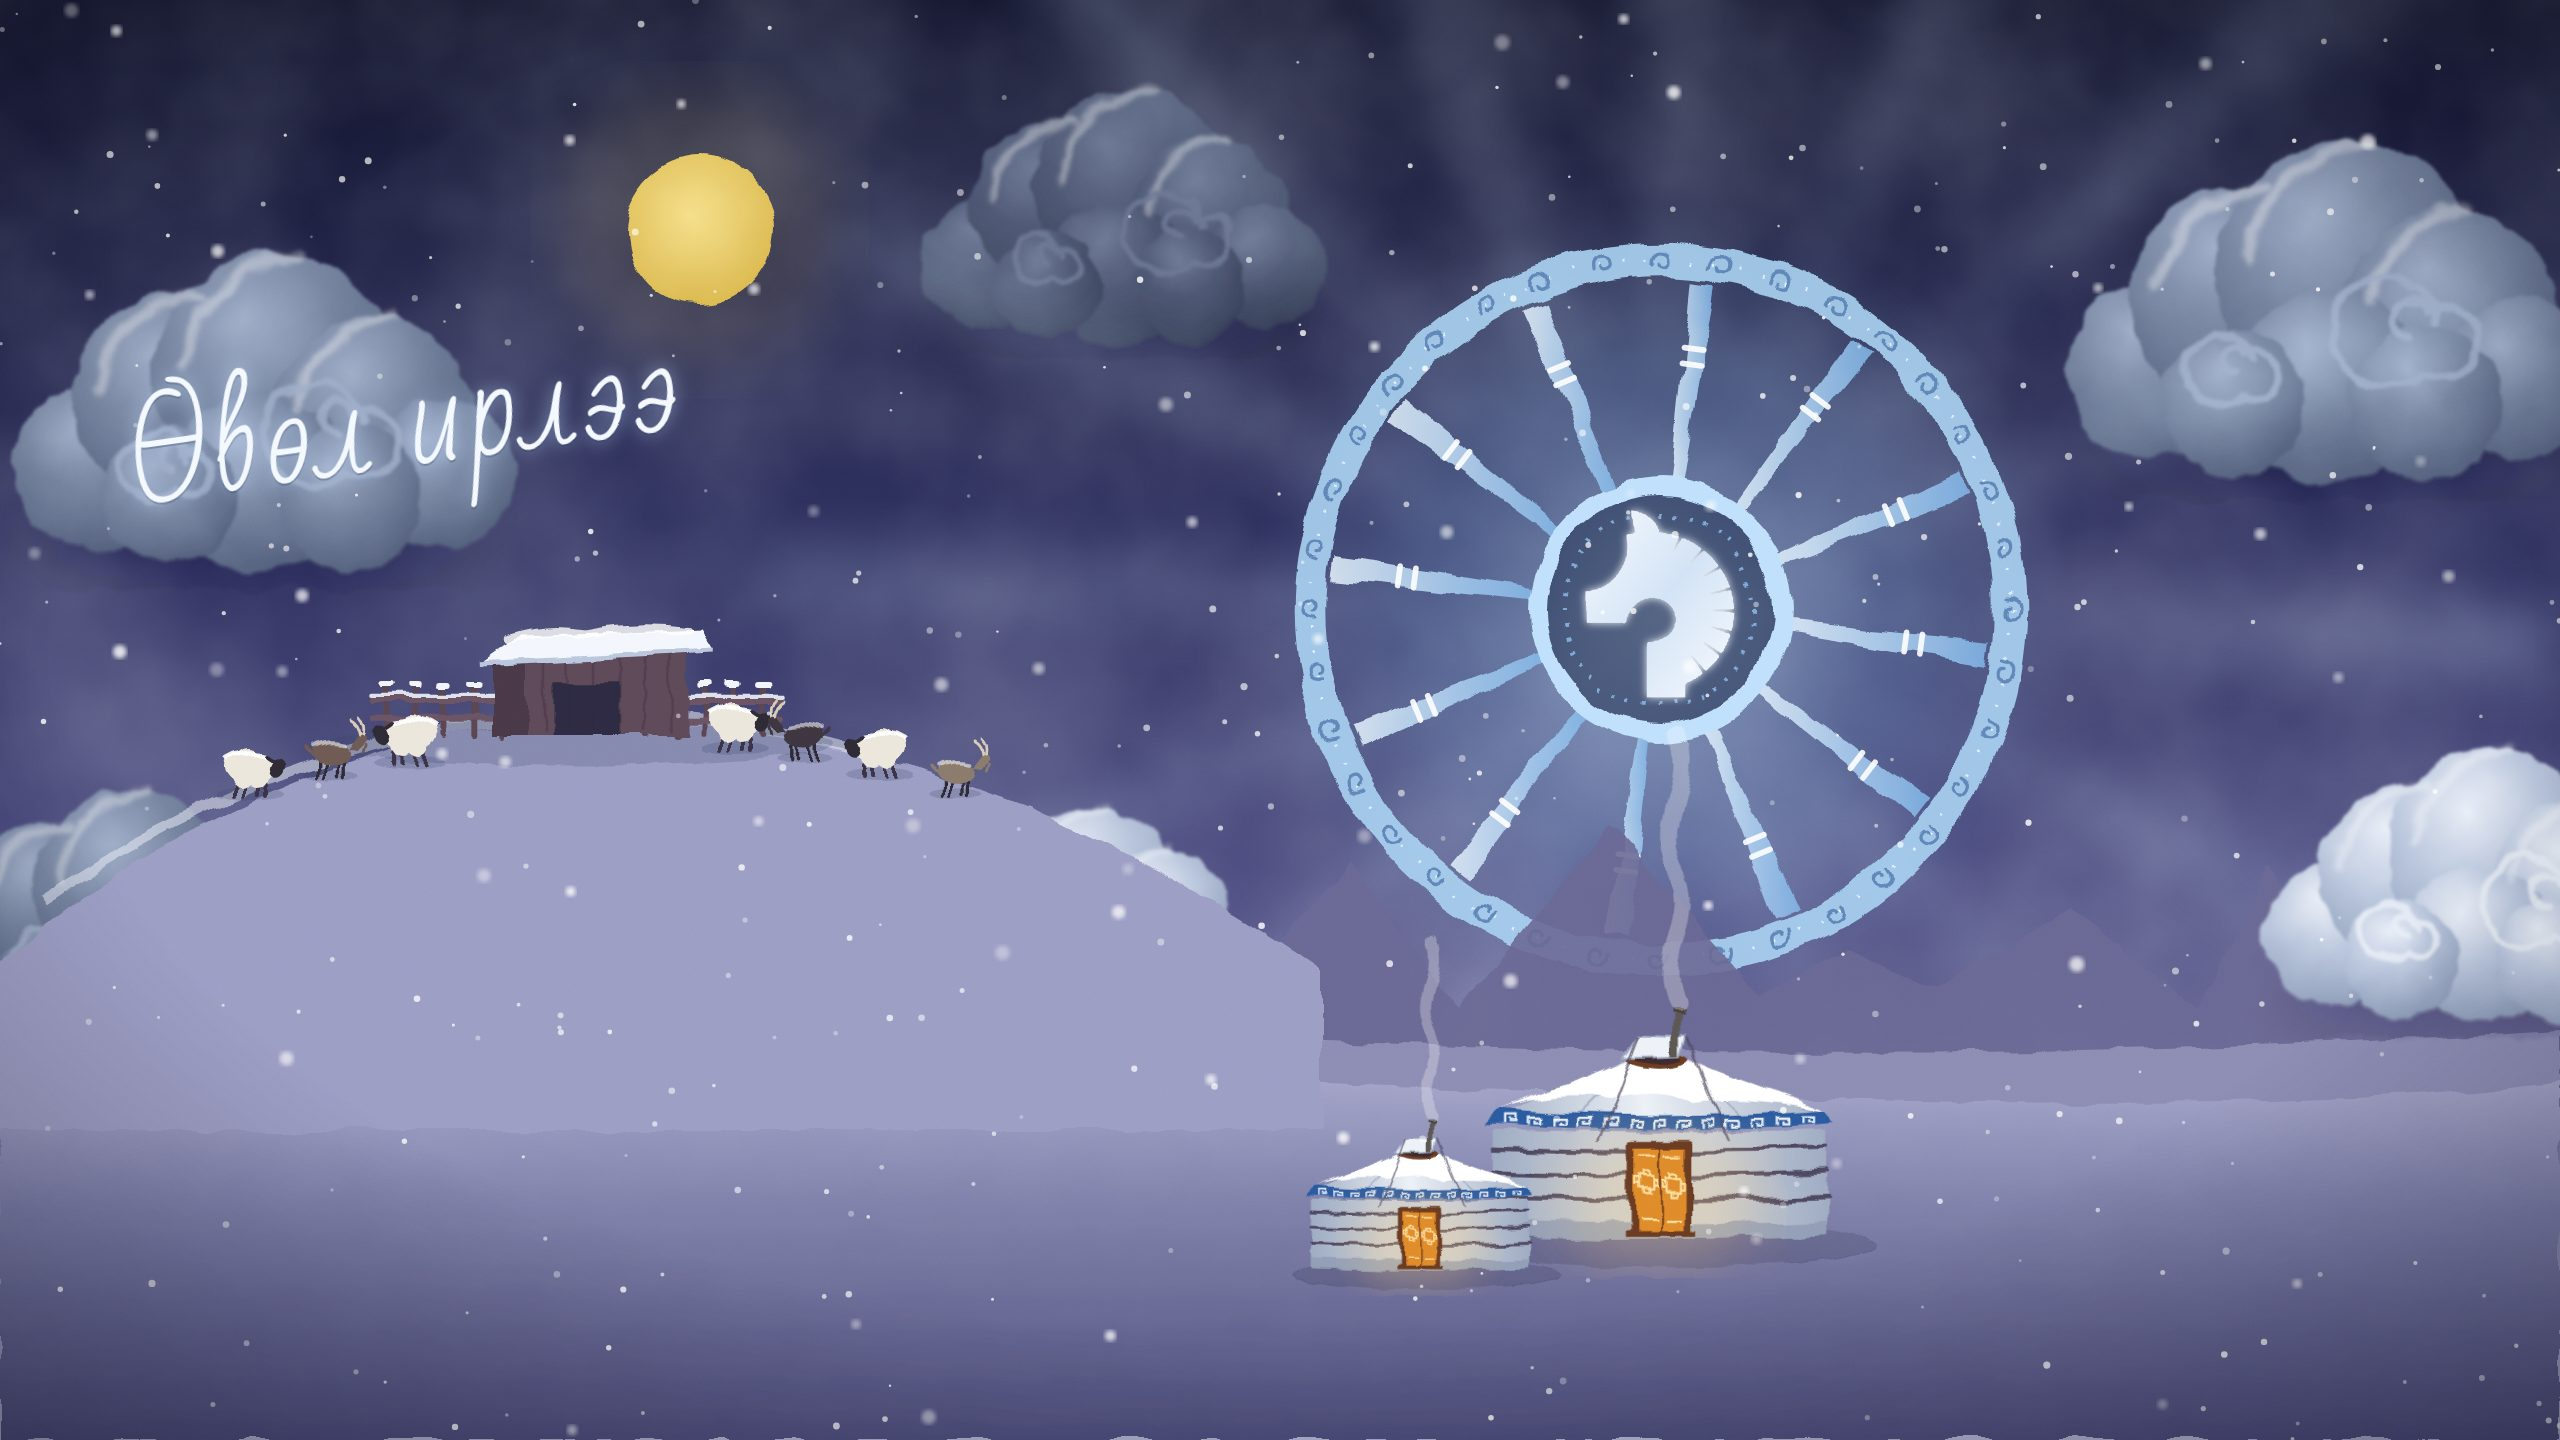
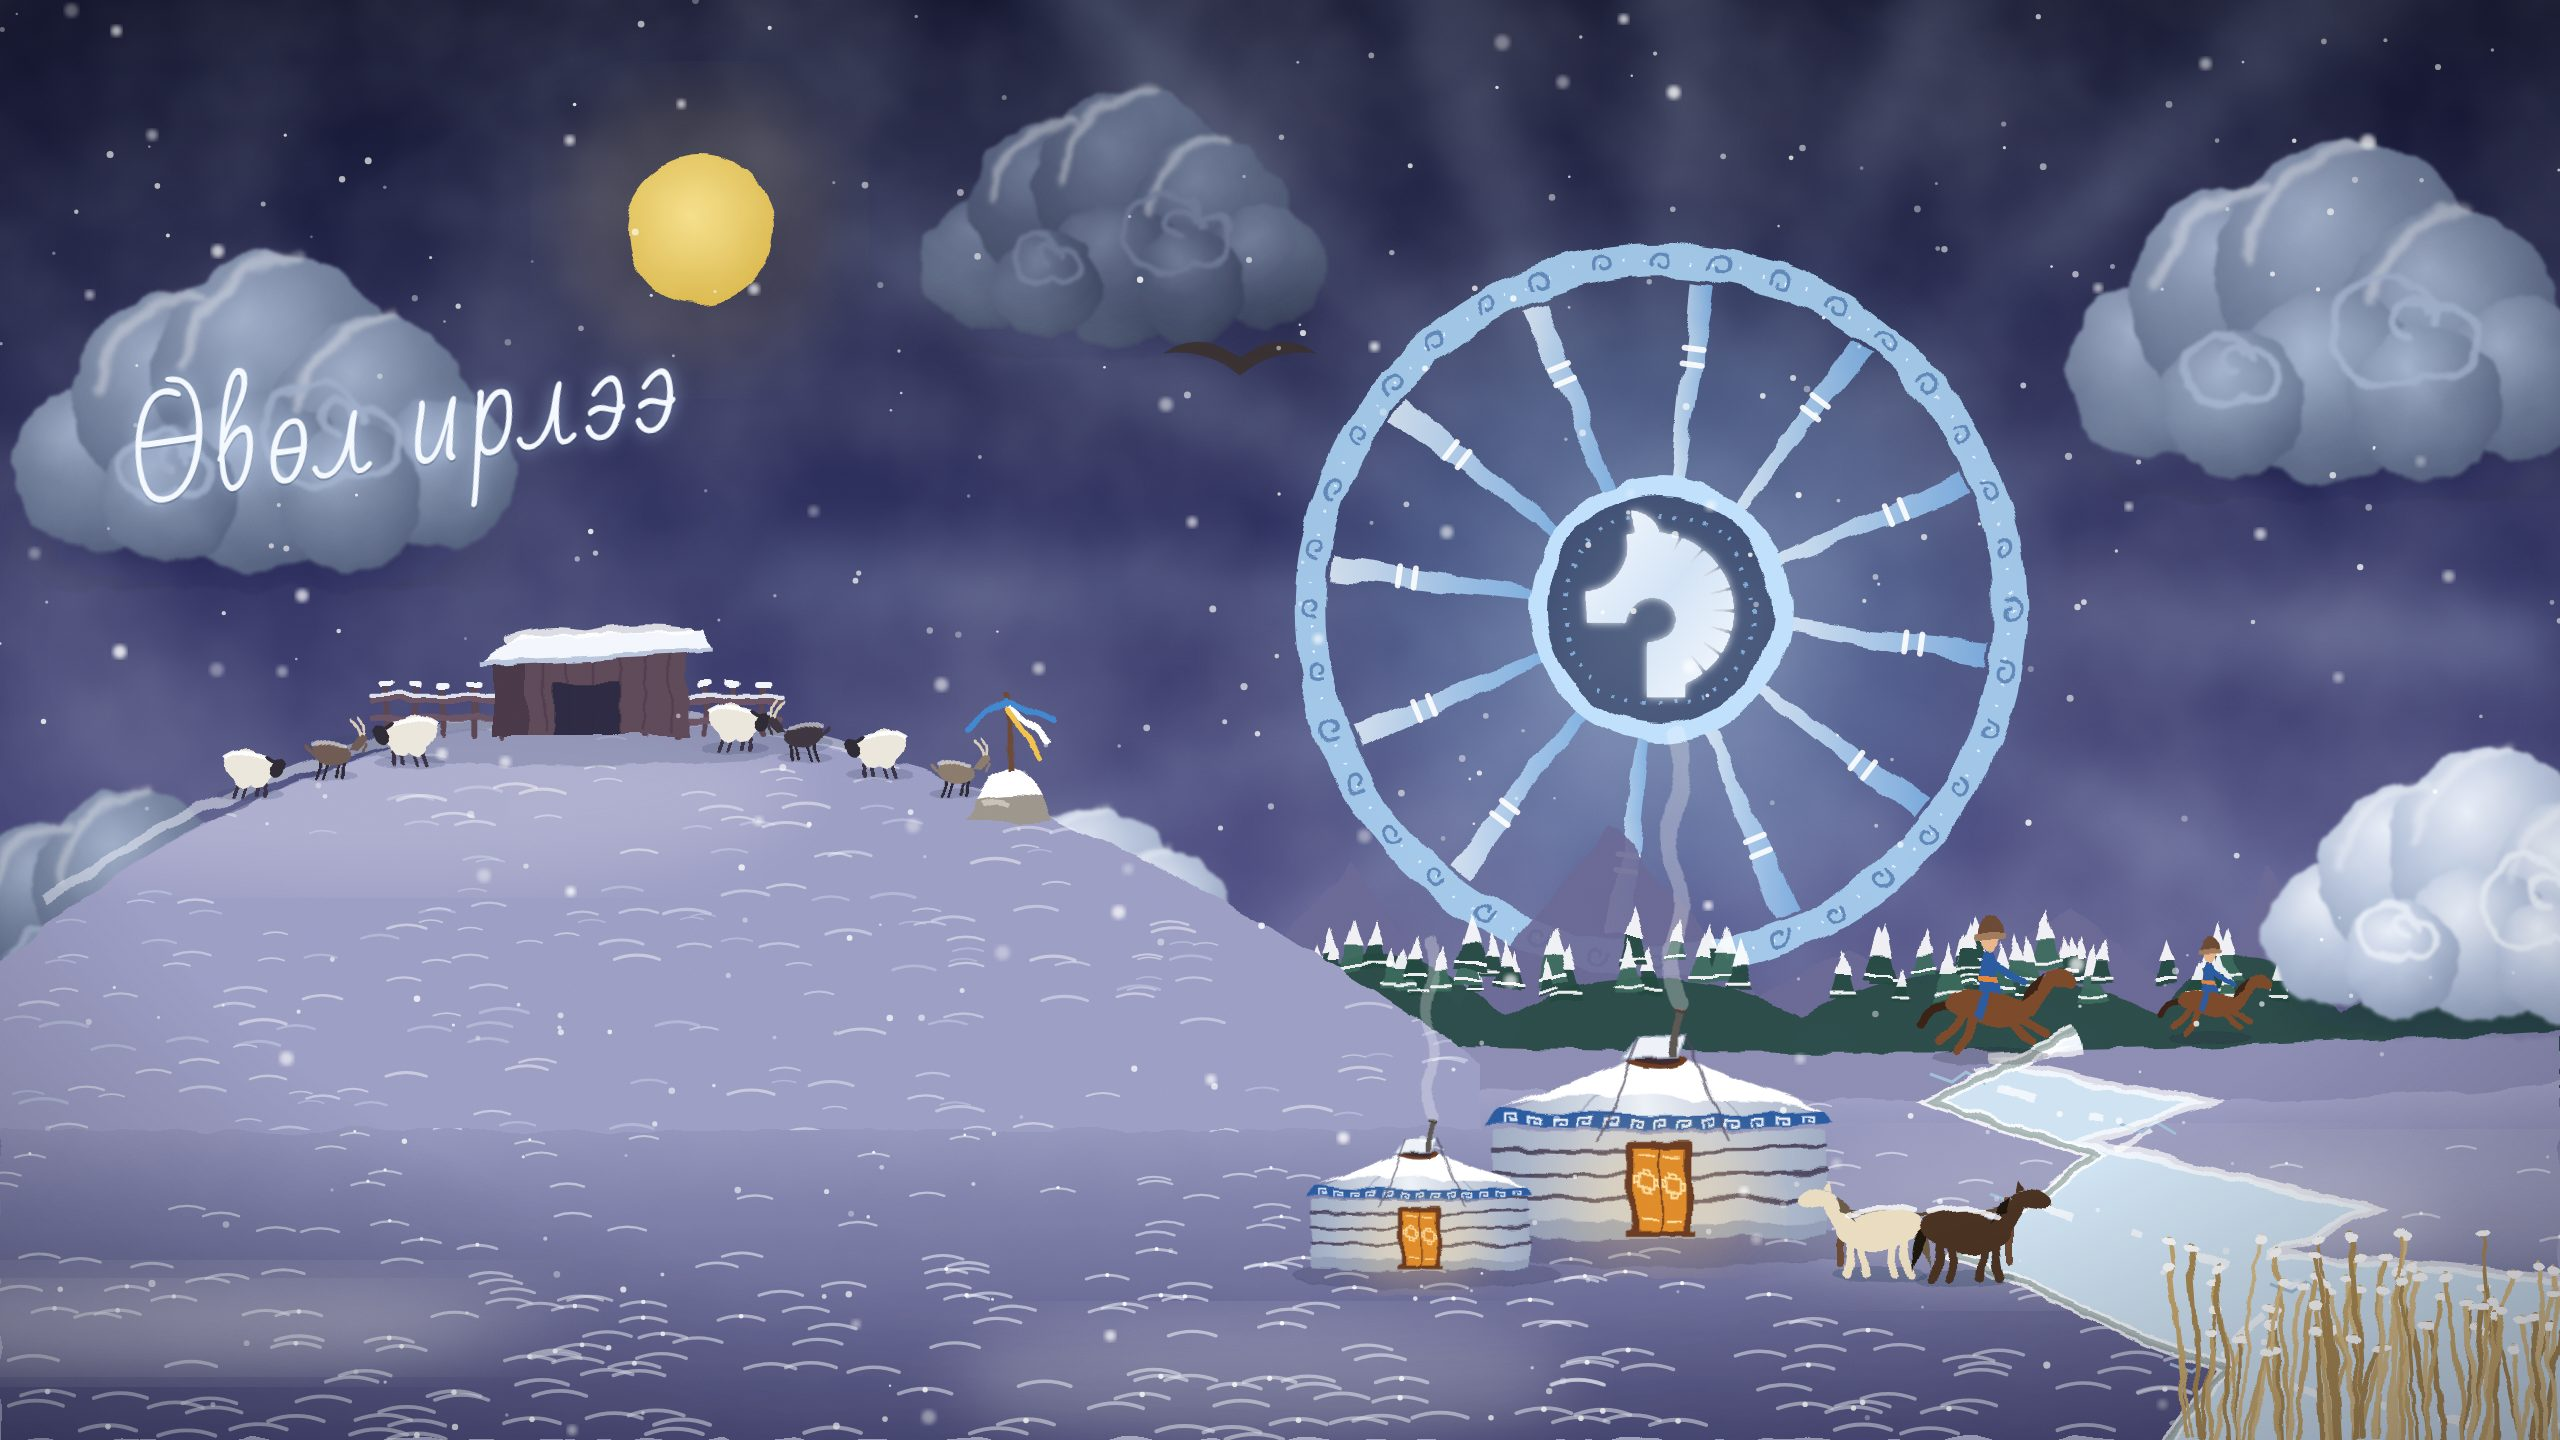
Livelier winter hero: snowy forest, frozen river, riders, ovoo
Claude-Session: https://claude.ai/code/session_013mTHg5jK5EjhttnQogVYog

diff --git a/css/style.css b/css/style.css
@@ -3507,14 +3507,14 @@ html.i18n-wait body { visibility: hidden; }
 .form__status.is-err { color: #b8322a; }
 /* Home hero changes with the season (html[data-season] is set in the page head) */
 .hero__bg--season { background: #1a1d36 center 40% / cover no-repeat; }
-html[data-season="winter"] .hero__bg--season { background-image: url(../assets/img/hero-winter.jpg?v=7); }
-html[data-season="spring"] .hero__bg--season { background-image: url(../assets/img/hero-spring.jpg?v=8); background-color: #7c9cc7; }
-html[data-season="summer"] .hero__bg--season { background-image: url(../assets/img/hero-summer.jpg?v=8); background-color: #3f86cf; }
-html[data-season="autumn"] .hero__bg--season { background-image: url(../assets/img/hero-autumn.jpg?v=8); background-color: #a65a5c; }
+html[data-season="winter"] .hero__bg--season { background-image: url(../assets/img/hero-winter.jpg?v=9); }
+html[data-season="spring"] .hero__bg--season { background-image: url(../assets/img/hero-spring.jpg?v=9); background-color: #7c9cc7; }
+html[data-season="summer"] .hero__bg--season { background-image: url(../assets/img/hero-summer.jpg?v=9); background-color: #3f86cf; }
+html[data-season="autumn"] .hero__bg--season { background-image: url(../assets/img/hero-autumn.jpg?v=9); background-color: #a65a5c; }
 @media (max-width: 700px) {
   .hero__bg--season { background-position: center top; }
-  html[data-season="winter"] .hero__bg--season { background-image: url(../assets/img/hero-winter-m.jpg?v=7); }
-  html[data-season="spring"] .hero__bg--season { background-image: url(../assets/img/hero-spring-m.jpg?v=7); }
-  html[data-season="summer"] .hero__bg--season { background-image: url(../assets/img/hero-summer-m.jpg?v=7); }
-  html[data-season="autumn"] .hero__bg--season { background-image: url(../assets/img/hero-autumn-m.jpg?v=7); }
+  html[data-season="winter"] .hero__bg--season { background-image: url(../assets/img/hero-winter-m.jpg?v=9); }
+  html[data-season="spring"] .hero__bg--season { background-image: url(../assets/img/hero-spring-m.jpg?v=9); }
+  html[data-season="summer"] .hero__bg--season { background-image: url(../assets/img/hero-summer-m.jpg?v=9); }
+  html[data-season="autumn"] .hero__bg--season { background-image: url(../assets/img/hero-autumn-m.jpg?v=9); }
 }

diff --git a/index.html b/index.html
@@ -26,7 +26,7 @@
   <link rel="preconnect" href="https://fonts.googleapis.com">
   <link rel="preconnect" href="https://fonts.gstatic.com" crossorigin>
   <link href="https://fonts.googleapis.com/css2?family=Inter:wght@400;500;600;700&family=Inter+Tight:wght@500;600;700&family=PT+Serif:ital@0;1&display=swap" rel="stylesheet">
-  <link rel="stylesheet" href="css/style.css?v=96">
+  <link rel="stylesheet" href="css/style.css?v=97">
   <script>
     (function () {
       var d = document.documentElement, s = null, l = null;
@@ -38,7 +38,7 @@
       var se = q || (m >= 3 && m <= 5 ? "spring" : m >= 6 && m <= 8 ? "summer" : m >= 9 && m <= 10 ? "autumn" : "winter");
       d.setAttribute("data-season", se);
       var pl = document.createElement("link"); pl.rel = "preload"; pl.as = "image"; pl.fetchPriority = "high";
-      pl.setAttribute("imagesrcset", "assets/img/hero-" + se + "-m.jpg?v=7 1080w, assets/img/hero-" + se + ".jpg?v=" + (se === "winter" ? 7 : 8) + " 2560w");
+      pl.setAttribute("imagesrcset", "assets/img/hero-" + se + "-m.jpg?v=9 1080w, assets/img/hero-" + se + ".jpg?v=9 2560w");
       pl.setAttribute("imagesizes", "100vw"); document.head.appendChild(pl);
       // Mongolian is the default; English only when the visitor chose it.
       if (l !== "en") { d.setAttribute("data-lang", "mn"); d.lang = "mn"; d.classList.add("i18n-wait"); setTimeout(function () { d.classList.remove("i18n-wait"); }, 2500); }

diff --git a/culture/index.html b/culture/index.html
@@ -20,7 +20,7 @@
   <link rel="preconnect" href="https://fonts.googleapis.com">
   <link rel="preconnect" href="https://fonts.gstatic.com" crossorigin>
   <link href="https://fonts.googleapis.com/css2?family=Inter:wght@400;500;600;700&family=Inter+Tight:wght@500;600;700&family=PT+Serif:ital@0;1&display=swap" rel="stylesheet">
-  <link rel="stylesheet" href="../css/style.css?v=96">
+  <link rel="stylesheet" href="../css/style.css?v=97">
   <script>
     (function () {
       var d = document.documentElement, s = null, l = null;

diff --git a/edu.html b/edu.html
@@ -20,7 +20,7 @@
   <link rel="preconnect" href="https://fonts.googleapis.com">
   <link rel="preconnect" href="https://fonts.gstatic.com" crossorigin>
   <link href="https://fonts.googleapis.com/css2?family=Inter:wght@400;500;600;700&family=Inter+Tight:wght@500;600;700&family=PT+Serif:ital@0;1&display=swap" rel="stylesheet">
-  <link rel="stylesheet" href="css/style.css?v=96">
+  <link rel="stylesheet" href="css/style.css?v=97">
   <script>
     (function () {
       var d = document.documentElement, s = null, l = null;

diff --git a/environment.html b/environment.html
@@ -20,7 +20,7 @@
   <link rel="preconnect" href="https://fonts.googleapis.com">
   <link rel="preconnect" href="https://fonts.gstatic.com" crossorigin>
   <link href="https://fonts.googleapis.com/css2?family=Inter:wght@400;500;600;700&family=Inter+Tight:wght@500;600;700&family=PT+Serif:ital@0;1&display=swap" rel="stylesheet">
-  <link rel="stylesheet" href="css/style.css?v=96">
+  <link rel="stylesheet" href="css/style.css?v=97">
   <script>
     (function () {
       var d = document.documentElement, s = null, l = null;

diff --git a/member.html b/member.html
@@ -20,7 +20,7 @@
   <link rel="preconnect" href="https://fonts.googleapis.com">
   <link rel="preconnect" href="https://fonts.gstatic.com" crossorigin>
   <link href="https://fonts.googleapis.com/css2?family=Inter:wght@400;500;600;700&family=Inter+Tight:wght@500;600;700&family=PT+Serif:ital@0;1&display=swap" rel="stylesheet">
-  <link rel="stylesheet" href="css/style.css?v=96">
+  <link rel="stylesheet" href="css/style.css?v=97">
   <script>
     (function () {
       var d = document.documentElement, s = null, l = null;

diff --git a/plan.html b/plan.html
@@ -20,7 +20,7 @@
   <link rel="preconnect" href="https://fonts.googleapis.com">
   <link rel="preconnect" href="https://fonts.gstatic.com" crossorigin>
   <link href="https://fonts.googleapis.com/css2?family=Inter:wght@400;500;600;700&family=Inter+Tight:wght@500;600;700&family=PT+Serif:ital@0;1&display=swap" rel="stylesheet">
-  <link rel="stylesheet" href="css/style.css?v=96">
+  <link rel="stylesheet" href="css/style.css?v=97">
   <script>
     (function () {
       var d = document.documentElement, s = null, l = null;

diff --git a/research.html b/research.html
@@ -20,7 +20,7 @@
   <link rel="preconnect" href="https://fonts.googleapis.com">
   <link rel="preconnect" href="https://fonts.gstatic.com" crossorigin>
   <link href="https://fonts.googleapis.com/css2?family=Inter:wght@400;500;600;700&family=Inter+Tight:wght@500;600;700&family=PT+Serif:ital@0;1&display=swap" rel="stylesheet">
-  <link rel="stylesheet" href="css/style.css?v=96">
+  <link rel="stylesheet" href="css/style.css?v=97">
   <script>
     (function () {
       var d = document.documentElement, s = null, l = null;
